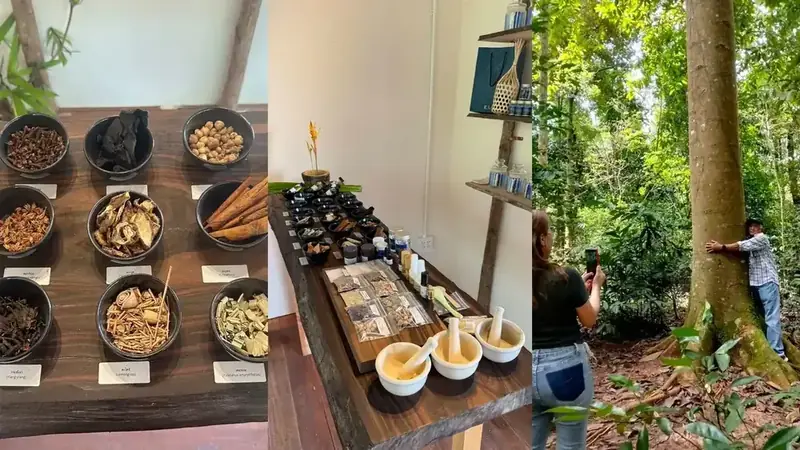
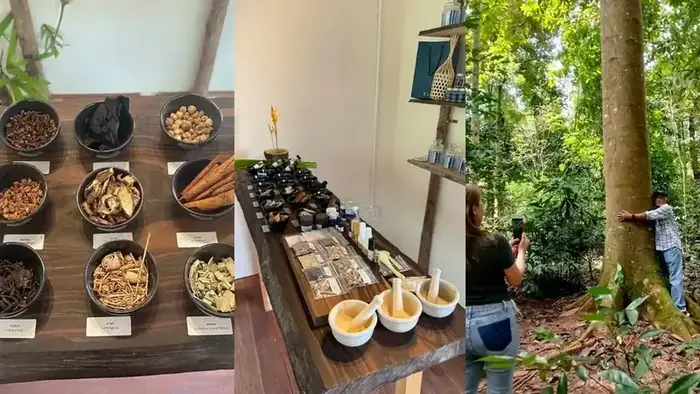
Performance

diff --git a/workshop.html b/workshop.html
@@ -1596,7 +1596,7 @@ footer p { opacity: 0.5; font-size: 0.9rem; }
     <div class="workshop-grid">
         <button type="button" class="card workshop-card" style="--ws-accent:#3E723B;" onclick="openWorkshopModal('ws1')">
             <div class="img-wrapper">
-                <img class="card-img" src="Workshop/1.webp" alt="" fetchpriority="high" decoding="async" width="800" height="450">
+                <img class="card-img" src="Workshop/1.webp" alt="" fetchpriority="high" decoding="async" width="700" height="394">
                 <span class="workshop-tile-icon"><svg viewBox="0 0 24 24" fill="none" stroke="currentColor" stroke-width="1.5" stroke-linecap="round" stroke-linejoin="round"><ellipse cx="12" cy="13.5" rx="4.5" ry="6"/><path d="M7.5 11h9M7.5 14h9M8.5 17h7"/><path d="M12 7.5V5"/><path d="M10 5.5l2-1 2 1"/><ellipse cx="6.3" cy="11" rx="2.2" ry="1.5" transform="rotate(-20 6.3 11)"/><ellipse cx="17.7" cy="11" rx="2.2" ry="1.5" transform="rotate(20 17.7 11)"/></svg></span>
             </div>
             <div class="card-body">
@@ -1607,7 +1607,7 @@ footer p { opacity: 0.5; font-size: 0.9rem; }
         </button>
         <button type="button" class="card workshop-card" style="--ws-accent:#3E723B;" onclick="openWorkshopModal('ws2')">
             <div class="img-wrapper">
-                <img class="card-img" src="Workshop/2.webp" alt="" loading="lazy" decoding="async" width="800" height="450">
+                <img class="card-img" src="Workshop/2.webp" alt="" loading="lazy" decoding="async" width="700" height="394">
                 <span class="workshop-tile-icon"><svg viewBox="0 0 24 24" fill="none" stroke="currentColor" stroke-width="1.5" stroke-linecap="round" stroke-linejoin="round"><path d="M12 21V10"/><path d="M12 10c-2-3-5-4-8-3"/><path d="M12 10c2-3 5-4 8-3"/><path d="M12 10c-1-4-3-6-6-6"/><path d="M12 10c1-4 3-6 6-6"/><path d="M12 10c0-3 0-5-1-7"/></svg></span>
             </div>
             <div class="card-body">
@@ -1640,7 +1640,7 @@ footer p { opacity: 0.5; font-size: 0.9rem; }
         </button>
         <button type="button" class="card workshop-card" style="--ws-accent:#3E723B;" onclick="openWorkshopModal('ws5')">
             <div class="img-wrapper">
-                <img class="card-img" src="Workshop/5.webp" alt="" loading="lazy" decoding="async" width="800" height="450">
+                <img class="card-img" src="Workshop/5.webp" alt="" loading="lazy" decoding="async" width="700" height="394">
                 <span class="workshop-tile-icon"><svg viewBox="0 0 24 24" fill="none" stroke="currentColor" stroke-width="1.5" stroke-linecap="round" stroke-linejoin="round"><circle cx="12" cy="7" r="2.6"/><circle cx="7.5" cy="12" r="2.6"/><circle cx="16.5" cy="12" r="2.6"/><circle cx="12" cy="17" r="2.6"/><circle cx="12" cy="12" r="1.8" fill="currentColor" stroke="none"/></svg></span>
             </div>
             <div class="card-body">
